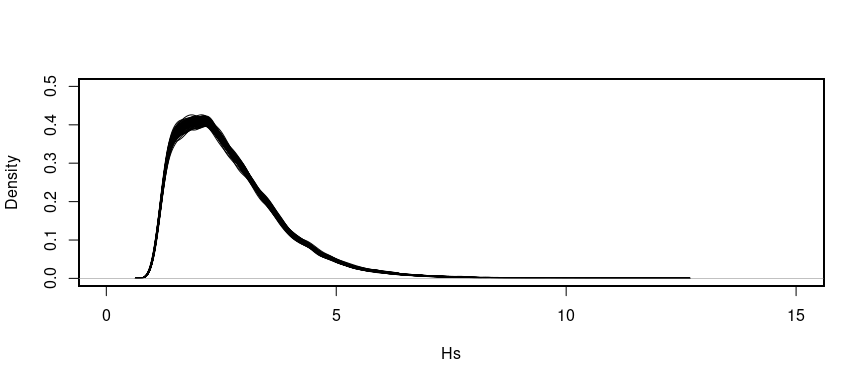
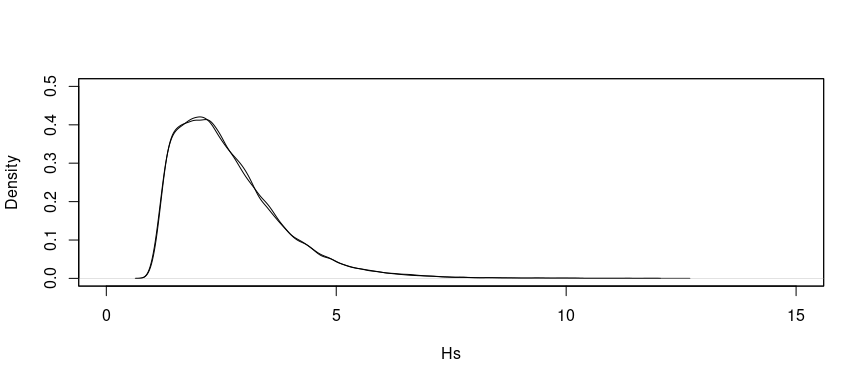
updated README

diff --git a/README.md b/README.md
@@ -77,7 +77,7 @@ plot(density(ds$hs, bw=.1))
 
 ``` r
 # number of bootstrap/resampling steps
-nbstrp <- 100  # e.g. nbstrp = 10 for testing
+nbstrp <- 2  # e.g. nbstrp = 10 for testing
 
 system.time(res_bstrp <- run_bootstrap_storms_pots(df = df_pick$storms,
                                                    group_col = "storm_idx",
@@ -86,7 +86,7 @@ system.time(res_bstrp <- run_bootstrap_storms_pots(df = df_pick$storms,
 ```
 
     ##    user  system elapsed 
-    ##  34.127   0.409  34.537
+    ##   0.744   0.000   0.744
 
 ``` r
 bstrp_storms_lst <- res_bstrp$boot_samples
@@ -117,6 +117,128 @@ plot(density(bstrp_pots_lst[[b+1]]$hs, bw=.1), xlim=c(0,15), ylim=c(0.,.5), main
 ```
 
 ![](README_files/figure-gfm/unnamed-chunk-6-1.png)<!-- -->
+
+## Model the non-stationary storm peaks
+
+``` r
+library(ppgam)
+library(extraDistr)
+library(ggplot2)
+library(extRemes)
+# define knots for cyclic splines
+knots = list(doy = c(0,366), Pdir=c(0,360))
+# indicate variable that needs ppgam weights
+node_str_lst = c('Pdir')
+# number of years covered by original dataset
+nr_of_years <- 48
+
+# threshold range from cross-validation
+thr_range <- list('hs'=c(.8,.9))
+
+# define models
+fml_pp <- ~ te(doy, Pdir, bs = c('cc', 'cc'), k = c(6,8))
+fml_gpd <- list(exc ~ te(doy, Pdir, k=c(6,8), bs=c("cc","cc")),
+                ~ te(doy, Pdir, k=c(6,8), bs=c("cc","cc")))
+fml_ald <- hs ~ te(doy, Pdir, bs=c("cc","cc"), k=c(6,8))
+
+model_fml_thr <- NULL
+model_fml_occ <- NULL
+model_fml_gpd <- NULL
+model_fml_thr[['hs']] <- fml_ald
+model_fml_occ[['hs']] <- fml_pp
+model_fml_gpd[['hs']] <- fml_gpd
+
+models_margs <- fit_margs_bstrp(bstrp_pots_lst,
+                                model_fml_thr, model_fml_occ, model_fml_gpd,
+                                extr_thr=thr_range, nr_of_years,
+                                thr_str = 'thr',
+                                list_var = prime_varstr,
+                                nbstrp = nbstrp,
+                                nquad = 225,
+                                knots = knots,
+                                node_str_lst = node_str_lst)
+```
+
+    ## [1] "Considered variables:" "hs"                   
+    ## [1] "number of bootstraps is:" "2"                       
+    ## [1] "bootstrap nr:" "1"            
+    ## [1] "fit threshold model"
+    ## [1] "fit threshold model for" "hs"                     
+    ## [1] "subset to pots above threshold"
+    ## [1] "subset dataset for" "hs"                
+    ## [1] "fit GPD model"
+    ## [1] "fit gpd model for" "hs"               
+    ## [1] "computing weights and creating nodes"
+    ## [1] "fit occ model"
+    ## [1] "fit occurrence model for" "hs"                      
+    ## [1] "bootstrap nr:" "2"            
+    ## [1] "fit threshold model"
+    ## [1] "fit threshold model for" "hs"                     
+    ## [1] "subset to pots above threshold"
+    ## [1] "subset dataset for" "hs"                
+    ## [1] "fit GPD model"
+    ## [1] "fit gpd model for" "hs"               
+    ## [1] "fit occ model"
+    ## [1] "fit occurrence model for" "hs"
+
+## Simulate 100yr maxima
+
+``` r
+RP <- 100
+nmc <- 100
+preds_margs_lst <- predict_margs(models_margs, nr_yrs_subdata, RP=RP,
+                                 nmc = nmc, var_lst=c('hs'), nbstrp = nbstrp,
+                                 covarstr_lst = c('Pdir','doy'),
+                                 grid_interval = list('Pdir'=1, 'doy'=1))
+```
+
+    ## [1] "number of boostraps (predict_margs):"
+    ## [2] "1"                                   
+    ## [1] "produce storms"
+    ## [1] "nr_of_events:" "1104"         
+    ## [1] "sum(predcounts)" "2763.566318467" 
+    ## [1] "lambda_max"         "0.0296618277273189"
+    ## [1] "proposal_N:" "3330"       
+    ## [1] "nr_of_sims:" "2321"       
+    ## [1] "predict threshold"
+    ## [1] "predict exceedences"
+    ## [1] "number of boostraps (predict_margs):"
+    ## [2] "2"                                   
+    ## [1] "produce storms"
+    ## [1] "nr_of_events:" "874"          
+    ## [1] "sum(predcounts)"  "2762.70779411207"
+    ## [1] "lambda_max"         "0.0256939660804343"
+    ## [1] "proposal_N:" "2240"       
+    ## [1] "nr_of_sims:" "1811"       
+    ## [1] "predict threshold"
+    ## [1] "predict exceedences"
+
+## Plot resulting simulated peaks
+
+``` r
+dhs <- diagnose_margs_preds_density(preds_margs_lst, 'hs', bw=.1, xlim=c(5,40))
+```
+
+![](README_files/figure-gfm/unnamed-chunk-9-1.png)<!-- -->
+
+    ## [1] "summary maxes:"
+    ##    Min. 1st Qu.  Median    Mean 3rd Qu.    Max. 
+    ##   11.53   12.42   13.55   14.15   15.12   25.85
+
+``` r
+df_ekofisk <- readRDS(file = "/home/patrikb/R-projects/envex/data/df_ekofisk.rds")
+abline(v = max(df_ekofisk$hs), col = "gray", lwd = 2)
+rvs <- NULL
+for (i in 1:length(dhs$maxvals)){
+  rvs[[i]] <- quantile(unlist(dhs$maxvals[[i]]), exp(-1))
+}
+rv100_q4 <- quantile(unlist(dhs$maxvals),exp(-1))  # q4 estimator
+rv100_q2p <- mean(unlist(rvs))  # q'2 estimator
+abline(v = rv100_q2p, col = "blue", lwd = 2)
+abline(v = rv100_q4, col = "paleturquoise2", lwd = 2)
+```
+
+![](README_files/figure-gfm/unnamed-chunk-9-2.png)<!-- -->
 
 ## Notes
 
